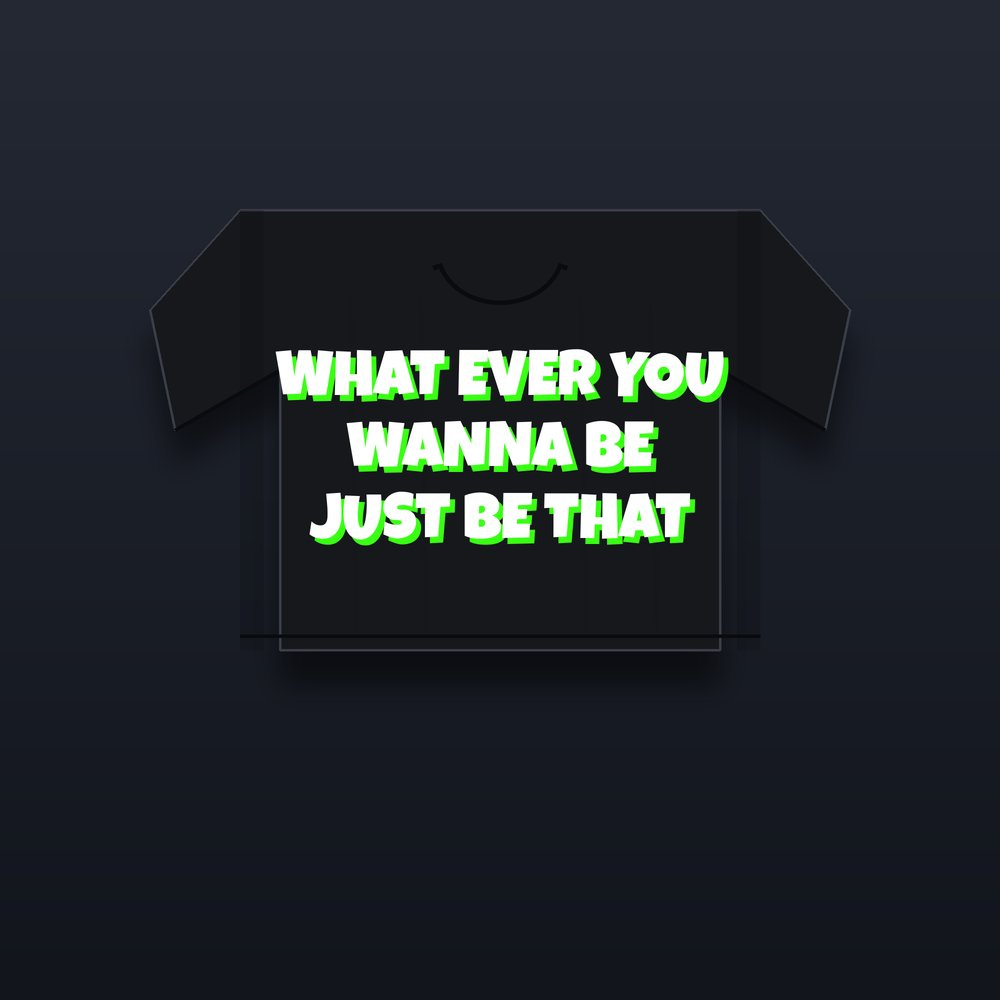
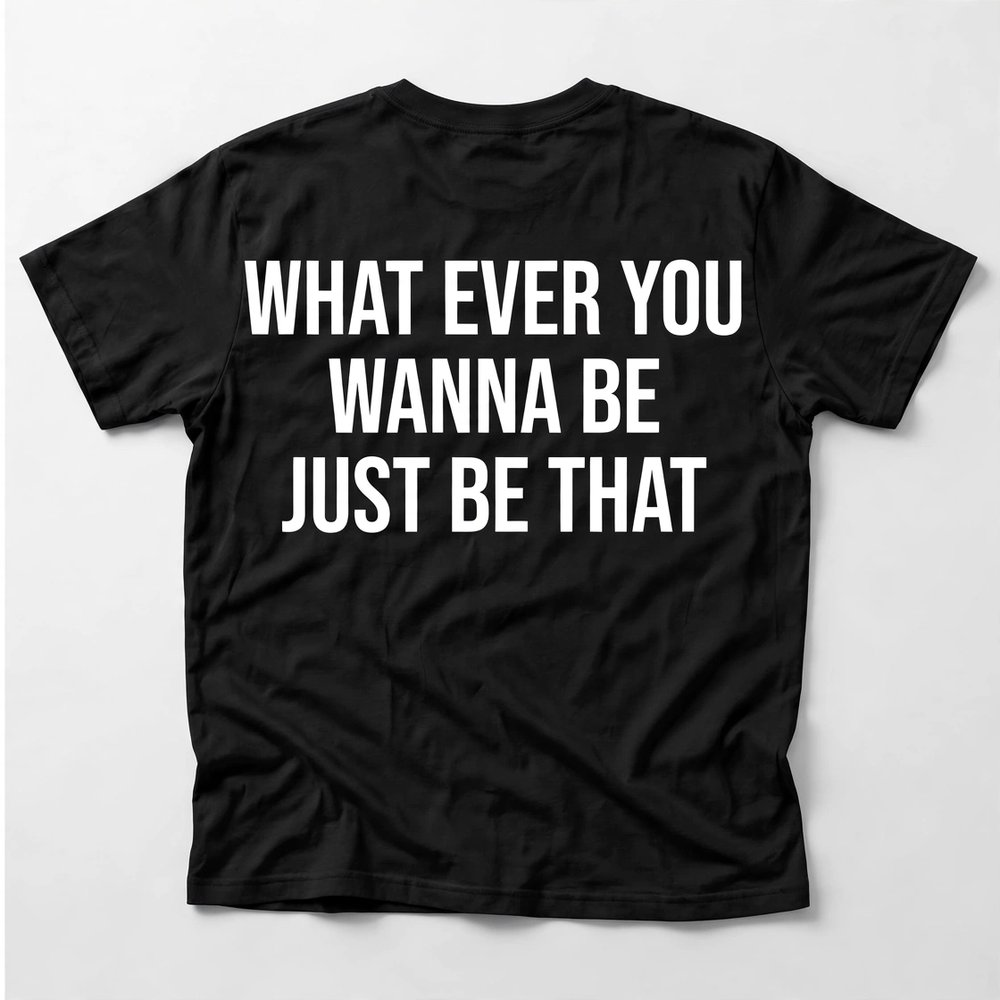
Merch store: flat front/back views, no spin warp
- Remove drag-to-spin rotateX/rotateY warp from merch cards (it bent
  the shirts and garbled the Be That text) plus all Drag to spin hints.
- Front / Back toggle on the 3 products with a real back design:
  Logo Tee (GET YOU ONE), Be That 3D Block and Be That Bubble (full
  saying). Backs are the real Drop 007/008 photo mockups, not redraws.
- Bubble Tee now shows the real black Drop 007 product (the white
  card was a Nov 18 site-only variant); copy corrected to match.
- Ci1 Classic, Hoodie, Dad Hat, See I Won, Sticker Pack are front-only
  per PLAN.md + real Printful mockups (no back design exists) — no
  fake backs invented. Prices, order, links unchanged.

diff --git a/index.html b/index.html
@@ -375,13 +375,15 @@
   .merch-grid{display:grid;grid-template-columns:repeat(3,1fr);gap:16px}
   .merch-grid>*{min-width:0}
   .merch{background:var(--panel);border:1px solid var(--line);border-radius:var(--radius);overflow:hidden;display:flex;flex-direction:column}
-  .merch-stage{aspect-ratio:1/1;perspective:800px;overflow:hidden;position:relative;cursor:grab;touch-action:pan-y}
-  .merch-stage:active{cursor:grabbing}
-  .merch-spin{position:absolute;inset:0;transform-style:preserve-3d;will-change:transform}
-  .merch-spin img{width:100%;height:100%;object-fit:cover;pointer-events:none}
-  .merch-spin.pad img{object-fit:contain;padding:14%}
+  .merch-stage{aspect-ratio:1/1;overflow:hidden;position:relative}
+  .merch-view{position:absolute;inset:0}
+  .merch-view img{width:100%;height:100%;object-fit:cover;display:block}
+  .merch-view img[hidden]{display:none}
+  .merch-view.pad img{object-fit:contain;padding:14%}
   .ph-dark{background:#0b0f16}.ph-light{background:#e9ede7}
-  .spin-hint{position:absolute;right:10px;bottom:10px;z-index:2;background:rgba(8,14,9,.72);color:#dff5e2;border:1px solid rgba(140,255,170,.3);border-radius:999px;padding:5px 10px;font-size:.7rem;font-weight:700;letter-spacing:.04em;pointer-events:none}
+  .merch-toggle{position:absolute;left:50%;bottom:10px;transform:translateX(-50%);z-index:2;display:flex;gap:6px;background:rgba(8,14,9,.72);border:1px solid rgba(140,255,170,.3);border-radius:999px;padding:4px}
+  .merch-toggle button{appearance:none;border:0;background:transparent;color:#dff5e2;font:700 .78rem/1 "Archivo",system-ui,sans-serif;letter-spacing:.04em;padding:7px 14px;border-radius:999px;cursor:pointer}
+  .merch-toggle button.on{background:#39FF14;color:#06130a}
   .merch .body{padding:15px 16px 17px;display:flex;flex-direction:column;gap:6px;flex:1}
   .merch h3{margin:0;font-size:1.02rem}
   .merch p{margin:0;color:var(--muted);font-size:.88rem;line-height:1.5;flex:1}
@@ -991,47 +993,47 @@
   <!-- ============ 07 · MERCH STORE ============ -->
   <section class="chapter" id="shop">
     <div class="ch-head"><span class="ch-num">07</span><div><h2>Merch Store</h2></div></div>
-    <p class="ch-sub">The merch lines are <b>LuMar Beats</b>, <b>Ci1</b> — “See I Won” — and <b>Be That</b>: whatever you wanna be, just be that. Drag any piece to spin it around, then grab it in the TikTok Shop. Printed to order, so nothing ships until you order it.</p>
+    <p class="ch-sub">The merch lines are <b>LuMar Beats</b>, <b>Ci1</b> — “See I Won” — and <b>Be That</b>: whatever you wanna be, just be that. Tap Front / Back on a piece to see both sides, then grab it in the TikTok Shop. Printed to order, so nothing ships until you order it.</p>
 
     <div class="merch-grid">
-      <article class="merch">
-        <div class="merch-stage"><div class="merch-spin"><img src="assets/merch-logo-tee.jpg" alt="LuMar Beats Logo Tee — black tee with the electric green LuMar Beats graffiti logo on the chest" draggable="false" loading="lazy" decoding="async"></div><span class="spin-hint">Drag to spin</span></div>
+      <article class="merch" data-flip>
+        <div class="merch-stage"><div class="merch-view"><img class="mv-front" src="assets/merch-logo-tee.jpg" alt="LuMar Beats Logo Tee — black tee with the electric green LuMar Beats graffiti logo on the chest" draggable="false" loading="lazy" decoding="async"><img class="mv-back" src="assets/merch-logo-tee-back.jpg" alt="LuMar Beats Logo Tee — back of the black tee with “GET YOU ONE” in white block letters" draggable="false" loading="lazy" decoding="async" hidden></div><div class="merch-toggle" role="group" aria-label="View front or back"><button type="button" class="on" data-view="front">Front</button><button type="button" data-view="back">Back</button></div></div>
         <div class="body"><h3>LuMar Beats Logo Tee</h3><p>Electric Green logo on Black. The official LuMar Beats logo big across the chest, “GET YOU ONE” on the back. Comfort Colors 1717 heavyweight tee, sizes S–2XL.</p>
           <div class="row"><span class="price">$36.99</span><a class="btn btn-green" href="https://www.tiktok.com/@lumarbeats" target="_blank" rel="noopener">TikTok Shop</a></div></div>
 </article>
       <article class="merch">
-        <div class="merch-stage"><div class="merch-spin"><img src="assets/merch-ci1-tee.jpg" alt="Ci1 Classic Tee — black tee with the big white circular Ci1 badge on the chest and SEE I WON underneath" draggable="false" loading="lazy" decoding="async"></div><span class="spin-hint">Drag to spin</span></div>
+        <div class="merch-stage"><div class="merch-view"><img src="assets/merch-ci1-tee.jpg" alt="Ci1 Classic Tee — black tee with the big white circular Ci1 badge on the chest and SEE I WON underneath" draggable="false" loading="lazy" decoding="async"></div></div>
         <div class="body"><h3>Ci1 Classic Tee</h3><p>Black Bella + Canvas tee. The white Ci1 badge big on the chest, “SEE I WON” underneath — the one that started the line, said louder.</p>
           <div class="row"><span class="price">$29.99</span><a class="btn btn-green" href="https://www.tiktok.com/@lumarbeats" target="_blank" rel="noopener">TikTok Shop</a></div></div>
 </article>
       <article class="merch">
-        <div class="merch-stage"><div class="merch-spin"><img src="assets/merch-ci1-hoodie.jpg" alt="Ci1 Hoodie — black heavy blend hoodie with the white Ci1 badge" draggable="false" loading="lazy" decoding="async"></div><span class="spin-hint">Drag to spin</span></div>
+        <div class="merch-stage"><div class="merch-view"><img src="assets/merch-ci1-hoodie.jpg" alt="Ci1 Hoodie — black heavy blend hoodie with the white Ci1 badge" draggable="false" loading="lazy" decoding="async"></div></div>
         <div class="body"><h3>Ci1 Hoodie</h3><p>Black Gildan heavy blend hoodie, white Ci1 badge front and center. Studio-night weight.</p>
           <div class="row"><span class="price">$49.99</span><a class="btn btn-green" href="https://www.tiktok.com/@lumarbeats" target="_blank" rel="noopener">TikTok Shop</a></div></div>
       </article>
       <article class="merch">
-        <div class="merch-stage"><div class="merch-spin"><img src="assets/merch-ci1-hat.jpg" alt="Ci1 Dad Hat — black dad hat with embroidered Ci1 mark" draggable="false" loading="lazy" decoding="async"></div><span class="spin-hint">Drag to spin</span></div>
+        <div class="merch-stage"><div class="merch-view"><img src="assets/merch-ci1-hat.jpg" alt="Ci1 Dad Hat — black dad hat with embroidered Ci1 mark" draggable="false" loading="lazy" decoding="async"></div></div>
         <div class="body"><h3>Ci1 Dad Hat</h3><p>Black dad hat with the bold Ci1 mark embroidered in white thread — built thick so the stitching reads clean.</p>
           <div class="row"><span class="price">$27.99</span><a class="btn btn-green" href="https://www.tiktok.com/@lumarbeats" target="_blank" rel="noopener">TikTok Shop</a></div></div>
       </article>
       <article class="merch">
-        <div class="merch-stage ph-light"><div class="merch-spin pad"><img src="assets/ci1-badge-black.png" alt="Black circular Ci1 badge artwork used on the See I Won tee" draggable="false" loading="lazy" decoding="async"></div><span class="spin-hint">Drag to spin</span></div>
+        <div class="merch-stage ph-light"><div class="merch-view pad"><img src="assets/ci1-badge-black.png" alt="Black circular Ci1 badge artwork used on the See I Won tee" draggable="false" loading="lazy" decoding="async"></div></div>
         <div class="body"><h3>“See I Won” Tee</h3><p>White tee, black Ci1 badge. Ci1 — I won. The statement piece of the line.</p>
           <div class="row"><span class="price">$29.99</span><a class="btn btn-green" href="https://www.tiktok.com/@lumarbeats" target="_blank" rel="noopener">TikTok Shop</a></div></div>
       </article>
       <article class="merch">
-        <div class="merch-stage ph-dark"><div class="merch-spin pad"><img src="assets/ci1-badge-white.png" alt="White Ci1 badge artwork used on the die-cut sticker pack" draggable="false" loading="lazy" decoding="async"></div><span class="spin-hint">Drag to spin</span></div>
+        <div class="merch-stage ph-dark"><div class="merch-view pad"><img src="assets/ci1-badge-white.png" alt="White Ci1 badge artwork used on the die-cut sticker pack" draggable="false" loading="lazy" decoding="async"></div></div>
         <div class="body"><h3>Ci1 Sticker Pack</h3><p>Three die-cut Ci1 badge stickers — white badge for dark surfaces, black for light. Laptop, case, studio door.</p>
           <div class="row"><span class="price">$9.99</span><a class="btn btn-green" href="https://www.tiktok.com/@lumarbeats" target="_blank" rel="noopener">TikTok Shop</a></div></div>
       </article>
-      <article class="merch">
-        <div class="merch-stage"><div class="merch-spin"><img src="assets/merch-bethat-3dblock.jpg" alt="“Be That” 3D Block Tee — black tee, back view, with the saying “What ever you wanna be, just be that” in white 3D block letters with a green shadow" draggable="false" loading="lazy" decoding="async"></div><span class="spin-hint">Drag to spin</span></div>
-        <div class="body"><h3>“Be That” 3D Block Tee</h3><p>Black Comfort Colors 1717 tee, back view shown. The full line — “Be whatever you wanna be, just be that!” — big across the back in chunky 3D block letters with a green shadow. “BE THAT!” rides up front.</p>
+      <article class="merch" data-flip>
+        <div class="merch-stage"><div class="merch-view"><img class="mv-front" src="assets/merch-bethat-3dblock-front.jpg" alt="“Be That” 3D Block Tee — black tee, front view, with “BE THAT!” in white 3D block letters with a green shadow" draggable="false" loading="lazy" decoding="async"><img class="mv-back" src="assets/merch-bethat-3dblock.jpg" alt="“Be That” 3D Block Tee — black tee, back view, with the saying “What ever you wanna be, just be that” in white bold block letters" draggable="false" loading="lazy" decoding="async" hidden></div><div class="merch-toggle" role="group" aria-label="View front or back"><button type="button" class="on" data-view="front">Front</button><button type="button" data-view="back">Back</button></div></div>
+        <div class="body"><h3>“Be That” 3D Block Tee</h3><p>Black Comfort Colors 1717 tee. “BE THAT!” up front in chunky 3D block letters with a green shadow; the full line — “Be whatever you wanna be, just be that!” — big across the back in bold block type.</p>
           <div class="row"><span class="price">$29.99</span><a class="btn btn-green" href="https://www.tiktok.com/@lumarbeats" target="_blank" rel="noopener">TikTok Shop</a></div></div>
 </article>
-      <article class="merch">
-        <div class="merch-stage"><div class="merch-spin"><img src="assets/merch-bethat-bubble.jpg" alt="“Be That” Bubble Tee — white tee, back view, with the saying “What ever you wanna be, just be that” in black graffiti bubble outlines" draggable="false" loading="lazy" decoding="async"></div><span class="spin-hint">Drag to spin</span></div>
-        <div class="body"><h3>“Be That” Bubble Tee</h3><p>White Comfort Colors 1717 tee, back view shown. The full line — “Be whatever you wanna be, just be that!” — across the back in fat graffiti bubble outlines. “BE THAT!” rides up front.</p>
+      <article class="merch" data-flip>
+        <div class="merch-stage"><div class="merch-view"><img class="mv-front" src="assets/merch-bethat-bubble-front.jpg" alt="“Be That” Bubble Tee — black tee, front view, with “BE THAT!” in white graffiti bubble outlines" draggable="false" loading="lazy" decoding="async"><img class="mv-back" src="assets/merch-bethat-bubble.jpg" alt="“Be That” Bubble Tee — black tee, back view, with the saying “What ever you wanna be, just be that” in white bold block letters" draggable="false" loading="lazy" decoding="async" hidden></div><div class="merch-toggle" role="group" aria-label="View front or back"><button type="button" class="on" data-view="front">Front</button><button type="button" data-view="back">Back</button></div></div>
+        <div class="body"><h3>“Be That” Bubble Tee</h3><p>Black Comfort Colors 1717 tee. “BE THAT!” up front in fat graffiti bubble outlines; the full line — “Be whatever you wanna be, just be that!” — big across the back in bold block type.</p>
           <div class="row"><span class="price">$29.99</span><a class="btn btn-green" href="https://www.tiktok.com/@lumarbeats" target="_blank" rel="noopener">TikTok Shop</a></div></div>
 </article>
     </div>
@@ -2176,25 +2178,24 @@ selectBeat(0, false);
    player configuration error" (Error 153) and swallowed taps, so
    channel / video / playlist links now go straight to YouTube. */
 
-/* ================= 07 · merch: drag to orbit ================= */
-document.querySelectorAll('.merch-stage').forEach(function(stage){
-  var spin = stage.querySelector('.merch-spin');
-  var rotY = 0, rotX = 0, dragging = false, lastX = 0, lastY = 0;
-  stage.addEventListener('pointerdown', function(e){
-    dragging = true; lastX = e.clientX; lastY = e.clientY;
-    stage.setPointerCapture(e.pointerId);
+/* ================= 07 · merch: front / back view ================= */
+/* Flat product photos — no drag, no warp. Cards with a real back design
+   (Logo Tee, both Be That tees) get a Front / Back toggle; front-only
+   pieces show the front and no toggle. */
+document.querySelectorAll('.merch[data-flip]').forEach(function(card){
+  var view = card.querySelector('.merch-view');
+  var front = view.querySelector('.mv-front');
+  var back = view.querySelector('.mv-back');
+  var btns = card.querySelectorAll('.merch-toggle button');
+  function set(v){
+    var isBack = (v === 'back');
+    front.hidden = isBack;
+    back.hidden = !isBack;
+    btns.forEach(function(b){ b.classList.toggle('on', b.getAttribute('data-view') === v); });
+  }
+  btns.forEach(function(b){
+    b.addEventListener('click', function(){ set(b.getAttribute('data-view')); });
   });
-  stage.addEventListener('pointermove', function(e){
-    if(!dragging) return;
-    rotY += (e.clientX - lastX) * 0.7;
-    rotX -= (e.clientY - lastY) * 0.35;
-    rotX = Math.max(-22, Math.min(22, rotX));
-    lastX = e.clientX; lastY = e.clientY;
-    spin.style.transform = 'rotateX(' + rotX + 'deg) rotateY(' + rotY + 'deg)';
-  });
-  function end(){ dragging = false; }
-  stage.addEventListener('pointerup', end);
-  stage.addEventListener('pointercancel', end);
 });
 </script>
 
